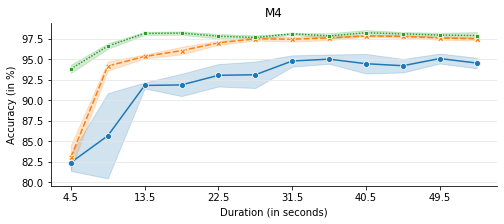
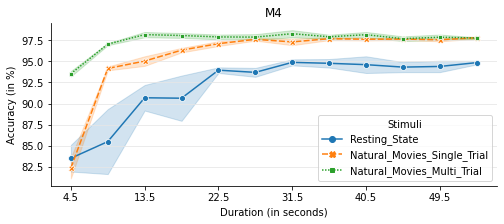
wide field imaging readme

diff --git a/wide-field-imaging/ReadMe.md b/wide-field-imaging/ReadMe.md
@@ -1,6 +1,6 @@
 # Experiments on wide-field dataset
 - This python notebook contains the code to repeat all results using wide-field dataset from [1].
-- This demo can be re-run using [this notebook](Experiments_Wide_Field.ipynb)
+- This ReadMe file has been generated by running '[Experiments_Wide_Field.ipynb](Experiments_Wide_Field.ipynb)' file
 
 
 ### Step 0: Import python modules
@@ -87,7 +87,7 @@ for mouse in tqdm(mice):
     
 
 
-### Step 3: Plot the boundraies predicted by the supervised classifier in Step 2 (Figs 2, 3 & 4)
+### Step 3: Plot the boundaries predicted by the supervised classifier in Step 2 (Figs 2, 3 & 4)
 - In this step the classification ( or misclassification) is shown by comparing the results obtained in Step 2 with the retintopic boundaries
 - This step also prints confusion matrix
 - See Section 2.1 and Figs 2, 3 & 4 in [1] for further details
@@ -139,7 +139,7 @@ for mouse in tqdm(mice):
     
 
 
-### Step 6: Plot the boundraies predicted by the semi-supervised classifier in Step 5 (Figs 5 & 6)
+### Step 6: Plot the boundaries predicted by the semi-supervised classifier in Step 5 (Figs 5 & 6)
 - In this step the classification (or misclassification) is shown by comparing the semi-supervised result with the retintopic boundaries.
 - See Section 2.2 and Figs 5 & 6 in [1] for further details
 
@@ -189,17 +189,17 @@ print(df)
 
     
         Trial_Number   Accuracy  Duration                      Stimuli
-    0              0  83.560481       4.5                Resting_State
-    1              0  82.633535       4.5  Natural_Movies_Single_Trial
-    2              0  93.258994       4.5   Natural_Movies_Multi_Trial
-    3              1  83.292034       4.5                Resting_State
-    4              1  81.933737       4.5  Natural_Movies_Single_Trial
+    0              0  83.103891       4.5                Resting_State
+    1              0  84.448421       4.5  Natural_Movies_Single_Trial
+    2              0  93.759178       4.5   Natural_Movies_Multi_Trial
+    3              1  82.358205       4.5                Resting_State
+    4              1  82.385738       4.5  Natural_Movies_Single_Trial
     ..           ...        ...       ...                          ...
-    175            3  97.636747      54.0  Natural_Movies_Single_Trial
-    176            3  97.941905      54.0   Natural_Movies_Multi_Trial
-    177            4  94.536986      54.0                Resting_State
-    178            4  97.531204      54.0  Natural_Movies_Single_Trial
-    179            4  97.528910      54.0   Natural_Movies_Multi_Trial
+    175            3  97.652808      54.0  Natural_Movies_Single_Trial
+    176            3  97.774413      54.0   Natural_Movies_Multi_Trial
+    177            4  94.594347      54.0                Resting_State
+    178            4  97.751468      54.0  Natural_Movies_Single_Trial
+    179            4  97.902900      54.0   Natural_Movies_Multi_Trial
     
     [180 rows x 4 columns]
 
@@ -207,7 +207,7 @@ print(df)
 
 ```python
 ax = sns.lineplot(x="Duration", y="Accuracy",
-             hue="Stimuli",style="Stimuli",markers=True,ci="sd", legend=False,
+             hue="Stimuli",style="Stimuli",markers=True,ci="sd", legend=True,
              data=df)
 sns.despine()
 ax.set_title("M4")
@@ -255,10 +255,27 @@ print(df)
     HBox(children=(HTML(value=''), FloatProgress(value=0.0, max=12.0), HTML(value='')))
 
 
+    
+        Trial_Number   Accuracy  Duration                      Stimuli
+    0              0  49.182651       4.5                Resting_State
+    1              0  69.745207       4.5  Natural_Movies_Single_Trial
+    2              0  78.229913       4.5   Natural_Movies_Multi_Trial
+    3              1  49.182651       4.5                Resting_State
+    4              1  67.509255       4.5  Natural_Movies_Single_Trial
+    ..           ...        ...       ...                          ...
+    103            1  81.028939      54.0  Natural_Movies_Single_Trial
+    104            1  75.624906      54.0   Natural_Movies_Multi_Trial
+    105            2  40.227571      54.0                Resting_State
+    106            2  78.062601      54.0  Natural_Movies_Single_Trial
+    107            2  71.509034      54.0   Natural_Movies_Multi_Trial
+    
+    [108 rows x 4 columns]
+
+
 
 ```python
 ax = sns.lineplot(x="Duration", y="Accuracy",
-             hue="Stimuli",style="Stimuli",markers=True,ci="sd", legend=False,
+             hue="Stimuli",style="Stimuli",markers=True,ci="sd", legend=True,
              data=df)
 sns.despine()
 ax.set_title("M4")
@@ -271,6 +288,12 @@ ax.set_xticks(x_t);
 fig = ax.get_figure()
 fig.set_size_inches(8, 3)
 ```
+
+
+    
+![png](examples/output_18_0.png)
+    
+
 
 ### Step 9: Compute correlations in reponses from different areas (Fig 8)
 - see Section 3 of [1] for more details on the figure obtained below
@@ -315,6 +338,6 @@ Image(filename=plot_tSNE(mice.M4, stimuli.Natural_Movies), width=600)
 [1] Mari Ganesh Kumar, Ming Hu, Aadhirai R, Mriganka Sur, and Hema A Murthy. “’Functional Parcellation of Mouse Visual Cortex Using Statistical Techniques Reveals Response-Dependent Clustering of Cortical Processing Areas”. In: PLOS Computational Biology (2020). Accepted For Publication
 
 
-```
+```python
 
 ```
